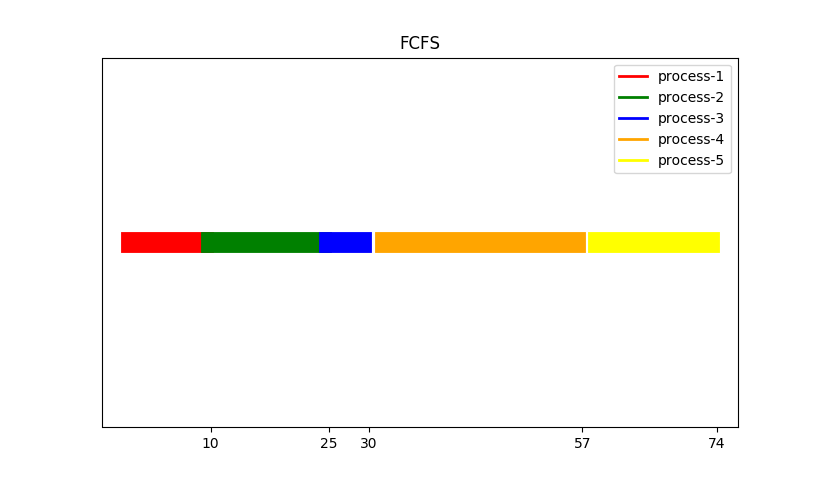
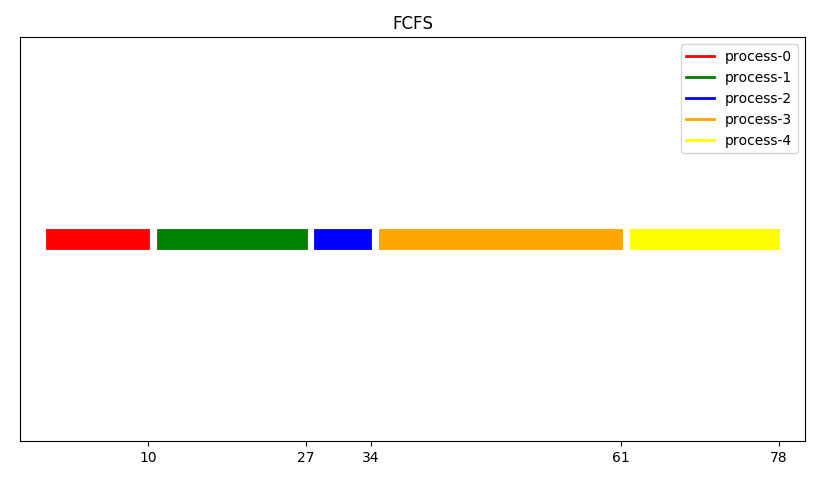
rename the legand

diff --git a/util/const.py b/util/const.py
@@ -8,6 +8,6 @@ ENDC = '\033[0m'
 BOLD = '\033[1m'
 UNDERLINE = '\033[4m'
 colors = ['red', 'green', 'blue', 'orange', 'yellow','black']
-labels = ['process-1', 'process-2', 'process-3',
-          'process-4', 'process-5']
+labels = ['process-0', 'process-1', 'process-2',
+          'process-3', 'process-4','process-5']
 simulator_list = ['FCFS','RR','SJF']

diff --git a/GCplot.py b/GCplot.py
@@ -1,3 +1,5 @@
+from itertools import product
+
 import numpy as np
 import matplotlib.pyplot as plt
 from util.const import *
@@ -25,5 +27,5 @@ def grantt_charts(data, title):
     plt.yticks([])
     plt.xticks(ticks)
     plt.title(title)
-    # plt.savefig('./result/test4/'+title)
+    # plt.savefig(title)
     plt.show()

diff --git a/part1.py b/part1.py
@@ -98,7 +98,7 @@ for sem in simulator_list:
         i += 1
 
     q.join()
-
+    print(result)
     grantt_charts(result, sem)
     awt = average_waiting_time(table["Arrival Time"].to_numpy(),
                                table["CPU Burst"].to_numpy(), np.array(ct))

diff --git a/util/Preprocessor.py b/util/Preprocessor.py
@@ -3,7 +3,7 @@ import numpy as np
 
 
 def read_data(file_name='processes.txt'):
-    with open('./processes.txt', 'r+') as d:
+    with open('processes.txt', 'r+') as d:
         content = d.readlines()
 
     information = tuple(map(int, content[:4]))
